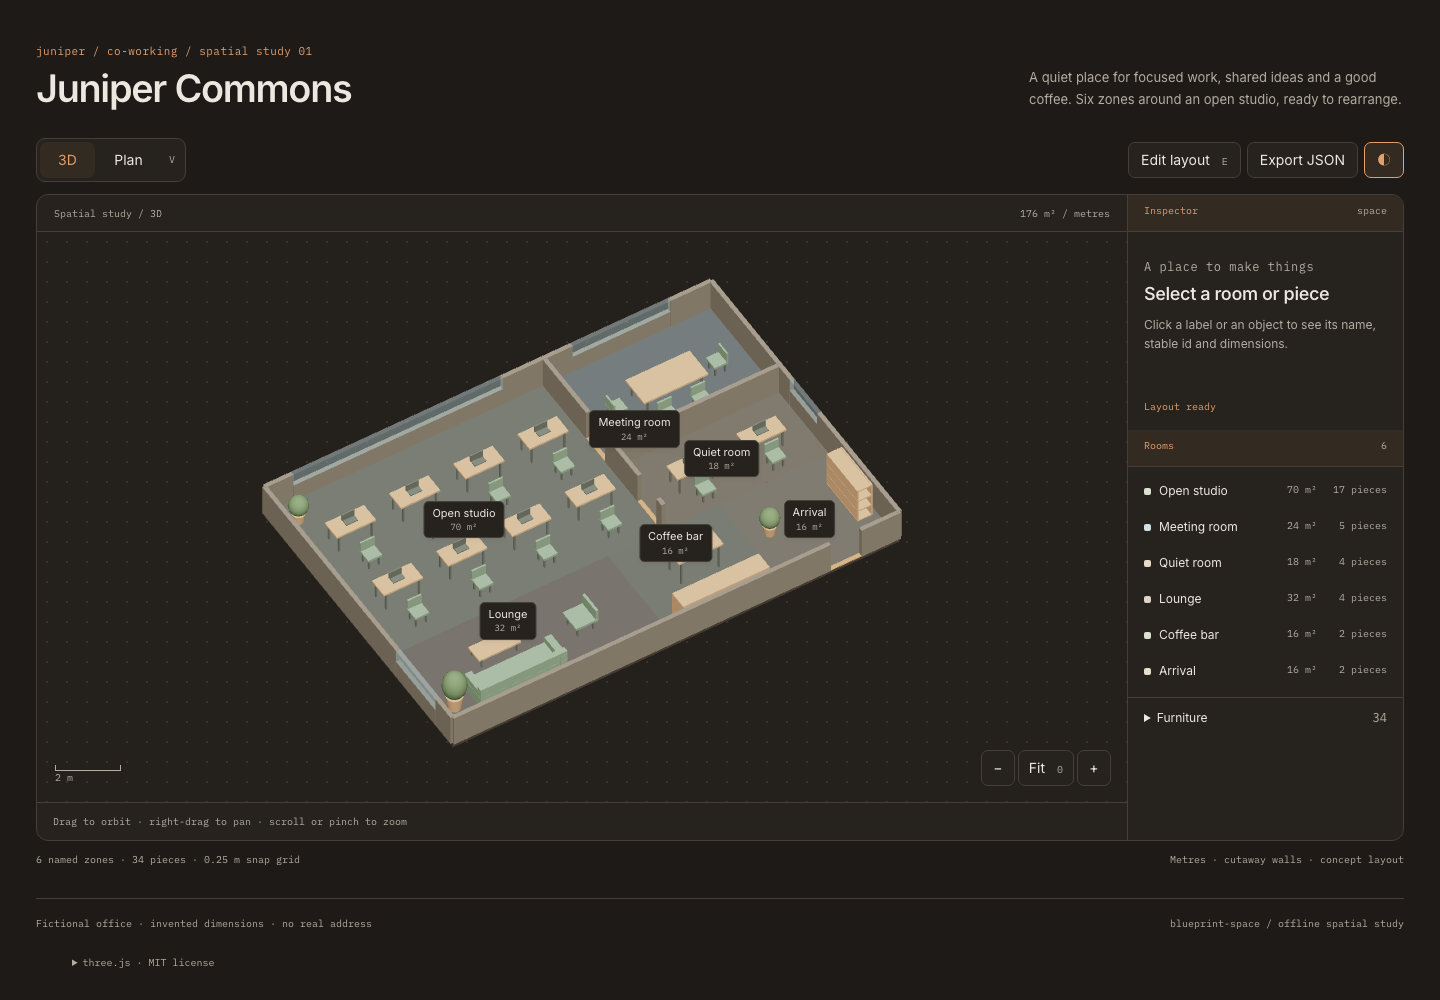
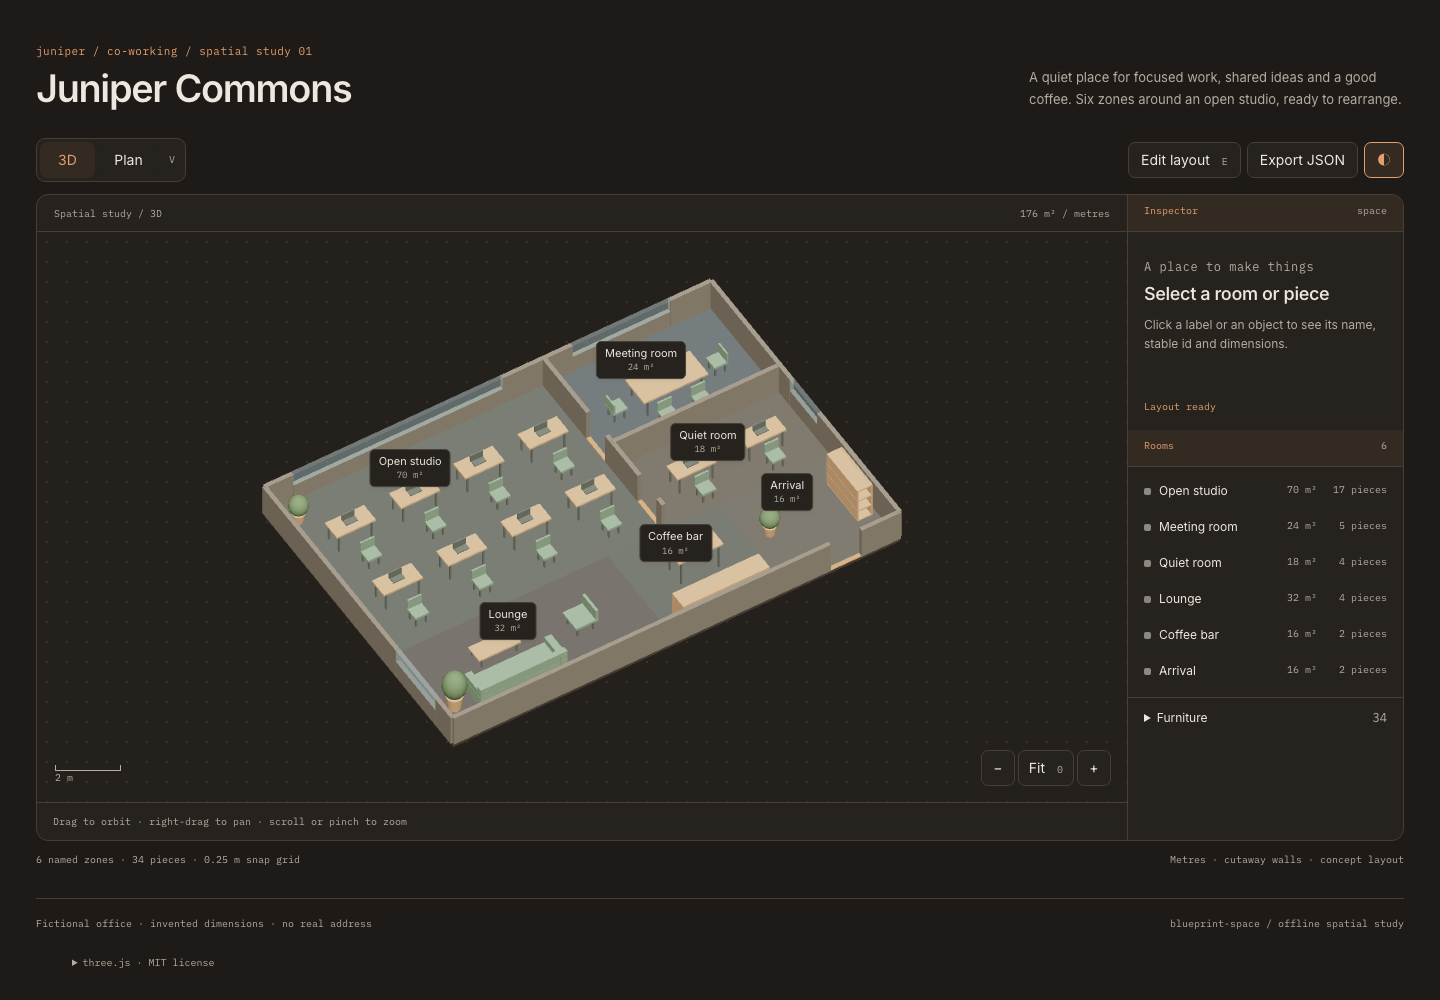
fix(blueprint-space): keep room labels clear
- Compare labels and projected furniture in viewport coordinates with full footprints.
- Preserve explicit anchors while compacting or nudging fallback labels to avoid overlaps.
- Assert label separation in desktop and phone 3D and Plan checks.

Changed region(s): [[0.4062, 0.341, 0.5938, 0.558], [0.25, 0.434, 0.375, 0.558]]

diff --git a/skills/blueprint-space/assets/viewer.js b/skills/blueprint-space/assets/viewer.js
@@ -151,6 +151,7 @@ rooms.forEach((room, i) => {
     `space-room-${room.id}`,
   );
   const meta = document.createElement("small");
+  meta.className = "room-area";
   meta.textContent = `${area(room.outline).toFixed(0)} m²`;
   label.append(meta);
   labels.set(room.id, label);
@@ -382,58 +383,157 @@ function labelCandidates(room) {
 }
 function placeRoomLabels() {
   const occupied = [];
-  const furniturePoints = furniture.map((piece) =>
-    project(
-      new THREE.Vector3(
-        piece.position[0],
-        piece.size[2] / 2,
-        piece.position[1],
+  const viewportRect = viewport.getBoundingClientRect();
+  const localRect = (label) => {
+    const bounds = label.getBoundingClientRect();
+    return {
+      left: bounds.left - viewportRect.left,
+      right: bounds.right - viewportRect.left,
+      top: bounds.top - viewportRect.top,
+      bottom: bounds.bottom - viewportRect.top,
+    };
+  };
+  const overlapArea = (first, second, padding = 0) => {
+    const width =
+      Math.min(first.right, second.right) -
+      Math.max(first.left, second.left) +
+      padding * 2;
+    const height =
+      Math.min(first.bottom, second.bottom) -
+      Math.max(first.top, second.top) +
+      padding * 2;
+    return width > 0 && height > 0 ? width * height : 0;
+  };
+  const furnitureRects = furniture.map((piece) => {
+    const angle = THREE.MathUtils.degToRad(piece.rotation || 0);
+    const corners = [
+      [-piece.size[0] / 2, -piece.size[1] / 2],
+      [piece.size[0] / 2, -piece.size[1] / 2],
+      [piece.size[0] / 2, piece.size[1] / 2],
+      [-piece.size[0] / 2, piece.size[1] / 2],
+    ].map(([x, z]) =>
+      project(
+        new THREE.Vector3(
+          piece.position[0] + x * Math.cos(angle) - z * Math.sin(angle),
+          0.08,
+          piece.position[1] + x * Math.sin(angle) + z * Math.cos(angle),
+        ),
       ),
-    ),
-  );
+    );
+    return {
+      left: Math.min(...corners.map(([x]) => x)),
+      right: Math.max(...corners.map(([x]) => x)),
+      top: Math.min(...corners.map(([, y]) => y)),
+      bottom: Math.max(...corners.map(([, y]) => y)),
+    };
+  });
   rooms.forEach((room) => {
     const label = labels.get(room.id);
-    let chosen = null;
-    for (const point of labelCandidates(room)) {
+    const areaLabel = label.querySelector(".room-area");
+    if (areaLabel) areaLabel.hidden = false;
+    label.classList.remove("compact");
+    const explicit = Boolean(room.label);
+    const candidates = explicit ? [room.label] : labelCandidates(room);
+    const evaluate = (point, dx = 0, dy = 0) => {
       const [x, y] = project(new THREE.Vector3(point[0], 0.08, point[1]));
-      label.style.left = `${x}px`;
-      label.style.top = `${y}px`;
+      label.style.left = `${x + dx}px`;
+      label.style.top = `${y + dy}px`;
       label.style.visibility = "visible";
-      const bounds = label.getBoundingClientRect();
+      const bounds = localRect(label);
       const outside =
-        bounds.right < viewport.getBoundingClientRect().left ||
-        bounds.left > viewport.getBoundingClientRect().right ||
-        bounds.bottom < viewport.getBoundingClientRect().top ||
-        bounds.top > viewport.getBoundingClientRect().bottom;
-      const overlapsLabel = occupied.some(
-        (other) =>
-          bounds.left < other.right + 4 &&
-          bounds.right > other.left - 4 &&
-          bounds.top < other.bottom + 4 &&
-          bounds.bottom > other.top - 4,
+        bounds.right < 0 ||
+        bounds.left > viewport.clientWidth ||
+        bounds.bottom < 0 ||
+        bounds.top > viewport.clientHeight;
+      const labelOverlap = occupied.reduce(
+        (total, other) => total + overlapArea(bounds, other, 2),
+        0,
       );
-      const overlapsFurniture = furniturePoints.some(
-        ([fx, fy]) =>
-          fx >= bounds.left - 20 &&
-          fx <= bounds.right + 20 &&
-          fy >= bounds.top - 20 &&
-          fy <= bounds.bottom + 20,
+      const furnitureOverlap = furnitureRects.reduce(
+        (total, other) => total + overlapArea(bounds, other, 4),
+        0,
       );
-      if (!outside && !overlapsLabel && !overlapsFurniture) {
-        chosen = bounds;
+      return {
+        point,
+        bounds,
+        outside,
+        labelOverlap,
+        furnitureOverlap,
+        dx,
+        dy,
+      };
+    };
+    if (explicit) {
+      let chosen = evaluate(room.label);
+      if (chosen.labelOverlap > 0 && areaLabel) {
+        areaLabel.hidden = true;
+        label.classList.add("compact");
+        chosen = evaluate(room.label);
+      }
+      occupied.push(chosen.bounds);
+      return;
+    }
+    let chosen = null;
+    for (const point of candidates) {
+      const result = evaluate(point);
+      if (
+        !result.outside &&
+        result.labelOverlap === 0 &&
+        result.furnitureOverlap === 0
+      ) {
+        chosen = result;
         break;
+      }
+      if (
+        !chosen ||
+        result.outside < chosen.outside ||
+        (result.outside === chosen.outside &&
+          (result.labelOverlap < chosen.labelOverlap ||
+            (result.labelOverlap === chosen.labelOverlap &&
+              result.furnitureOverlap < chosen.furnitureOverlap)))
+      ) {
+        chosen = result;
       }
     }
     if (!chosen) {
-      const point =
-        labelCandidates(room)[0] || room.label || centroid(room.outline);
-      const [x, y] = project(new THREE.Vector3(point[0], 0.08, point[1]));
-      label.style.left = `${x}px`;
-      label.style.top = `${y}px`;
-      label.style.visibility = "visible";
-      chosen = label.getBoundingClientRect();
+      chosen = evaluate(room.label || centroid(room.outline));
     }
-    occupied.push(chosen);
+    const nudge = [
+      [0, -24],
+      [0, 24],
+      [-24, 0],
+      [24, 0],
+      [-24, -24],
+      [24, -24],
+      [-24, 24],
+      [24, 24],
+      [0, -48],
+      [0, 48],
+    ];
+    if (chosen && chosen.labelOverlap > 0) {
+      for (const [dx, dy] of nudge) {
+        const candidate = evaluate(chosen.point, dx, dy);
+        if (!candidate.outside && candidate.labelOverlap === 0) {
+          chosen = candidate;
+          break;
+        }
+      }
+    }
+    if (chosen && chosen.labelOverlap > 0 && areaLabel) {
+      areaLabel.hidden = true;
+      label.classList.add("compact");
+      chosen = evaluate(chosen.point, chosen.dx, chosen.dy);
+      if (chosen.labelOverlap > 0) {
+        for (const [dx, dy] of nudge) {
+          const candidate = evaluate(chosen.point, dx, dy);
+          if (!candidate.outside && candidate.labelOverlap === 0) {
+            chosen = candidate;
+            break;
+          }
+        }
+      }
+    }
+    occupied.push(chosen.bounds);
   });
 }
 function render() {

diff --git a/skills/blueprint-space/assets/style.css b/skills/blueprint-space/assets/style.css
@@ -200,6 +200,10 @@ h1 {
   color: var(--muted);
   font: 9px/1.5 var(--mono);
 }
+.room-label.compact {
+  padding: 2px 2px;
+  font-size: 8px;
+}
 .view-tools {
   position: absolute;
   bottom: 16px;
@@ -349,6 +353,9 @@ dd {
   margin-right: 8px;
   background: var(--color);
 }
+[data-theme="dark"] .swatch {
+  filter: brightness(0.62) saturate(0.85);
+}
 .inventory {
   border-top: 1px solid var(--line);
   padding: 10px 16px;
@@ -453,6 +460,9 @@ footer {
   }
   .room-label small {
     font-size: 9px;
+  }
+  .room-label.compact {
+    min-height: 0;
   }
   .under,
   footer {

diff --git a/skills/blueprint-space/scripts/check_space.py b/skills/blueprint-space/scripts/check_space.py
@@ -176,6 +176,30 @@ def screen_references(model, anchor_id):
     return positions, x_ref["id"], z_ref["id"]
 
 
+def assert_labels_disjoint(page, context):
+    labels = page.locator(".room-label").evaluate_all(
+        """
+        elements => elements
+          .filter(element => getComputedStyle(element).visibility !== 'hidden')
+          .map(element => {
+            const rect = element.getBoundingClientRect();
+            return {left: rect.left, right: rect.right, top: rect.top, bottom: rect.bottom, text: element.innerText};
+          })
+        """
+    )
+    for index, first in enumerate(labels):
+        for second in labels[index + 1 :]:
+            overlap = (
+                first["left"] < second["right"]
+                and first["right"] > second["left"]
+                and first["top"] < second["bottom"]
+                and first["bottom"] > second["top"]
+            )
+            assert not overlap, (
+                f"{context}: labels overlap: {first['text']!r} / {second['text']!r}"
+            )
+
+
 def check_edge_cases(page, original, out):
     model = copy.deepcopy(original)
     names = {}
@@ -250,6 +274,7 @@ def main():
         page.goto(args.html.resolve().as_uri())
         expect(page.locator("#viewport canvas")).to_be_visible()
         page.evaluate("document.fonts.ready")
+        assert_labels_disjoint(page, "desktop 3D")
         ids = page.locator("[id]").evaluate_all(
             "(elements) => elements.map(element => element.id)"
         )
@@ -284,6 +309,7 @@ def main():
         expect(page.locator("#inspector")).to_contain_text(piece["id"])
         page.keyboard.press("v")
         expect(page.locator("#view-plan")).to_have_attribute("aria-pressed", "true")
+        assert_labels_disjoint(page, "desktop Plan")
         page.keyboard.press("e")
         expect(page.locator("#edit")).to_have_attribute("aria-pressed", "true")
         node = page.locator(f"#space-piece-{piece['id']}")
@@ -440,6 +466,11 @@ def main():
         )
         mobile.goto(args.html.resolve().as_uri())
         expect(mobile.locator("#viewport canvas")).to_be_visible()
+        assert_labels_disjoint(mobile, "phone 3D")
+        mobile.keyboard.press("v")
+        expect(mobile.locator("#view-plan")).to_have_attribute("aria-pressed", "true")
+        assert_labels_disjoint(mobile, "phone Plan")
+        mobile.keyboard.press("v")
         assert mobile.evaluate("document.documentElement.scrollWidth <= innerWidth"), (
             "phone overflow"
         )

diff --git a/skills/blueprint-space/SKILL.md b/skills/blueprint-space/SKILL.md
@@ -34,8 +34,10 @@ invented. The model is a layout study, not a construction drawing.
 5. Render light and dark PNGs in both views and look at them
 6. Publish to artifact.cafe for review when authorized (or deliver HTML / PNG)
 
-Commands below run from the installed skill directory; use absolute script
-paths when the project is elsewhere. The builder needs only Python's standard
+Commands below run from the project directory, with the installed skill's
+scripts called by path. Replace `/path/to/blueprint-space` with the installed
+skill directory. This keeps `dist/`, `check/` and PNGs in the project rather
+than inside the skill package. The builder needs only Python's standard
 library. Three.js **0.170.0** is vendored unchanged with its MIT license in
 `assets/vendor/`; fonts and the module are embedded, with no CDN at view time.
 
@@ -61,7 +63,7 @@ them to identify their comments.
 ## Step 3: Build
 
 ```bash
-python3 scripts/space.py space.json dist/index.html --strict
+python3 /path/to/blueprint-space/scripts/space.py space.json dist/index.html --strict
 ```
 
 Fix every `WARN`: overlaps, furniture outside its room or floor, furniture
@@ -77,7 +79,7 @@ Plan displays wall footprints. Windows appear within the visible cutaway.
 ## Step 4: Check it
 
 ```bash
-python3 scripts/check_space.py dist/index.html check/
+python3 /path/to/blueprint-space/scripts/check_space.py dist/index.html check/
 ```
 
 For a furnished space, this exercises orbit, V/Plan, E/edit, dragging the first
@@ -105,8 +107,8 @@ Keep that exported file; rebuilding the old source would discard the changes.
 ## Step 5: Look at it
 
 ```bash
-python3 scripts/render_png.py dist/index.html space.png --view both
-python3 scripts/render_png.py dist/index.html phone.png --view both --width 390 --height 844
+python3 /path/to/blueprint-space/scripts/render_png.py dist/index.html space.png --view both
+python3 /path/to/blueprint-space/scripts/render_png.py dist/index.html phone.png --view both --width 390 --height 844
 ```
 
 Each command writes four files: light and dark 3D, and `-plan` / `-plan-dark`.
